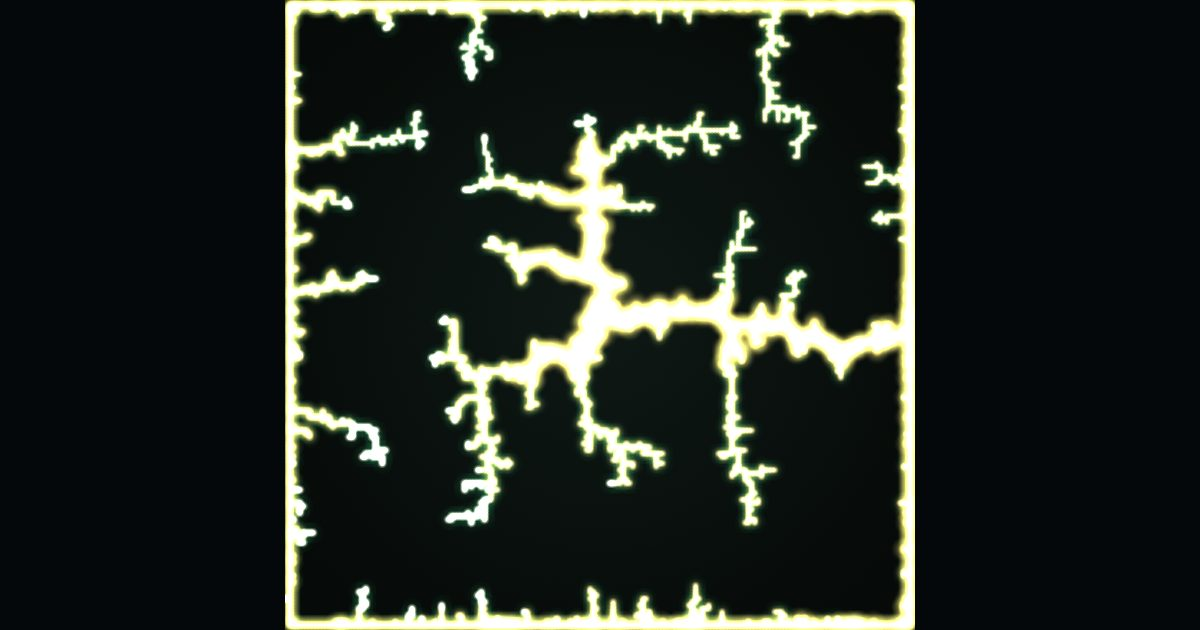
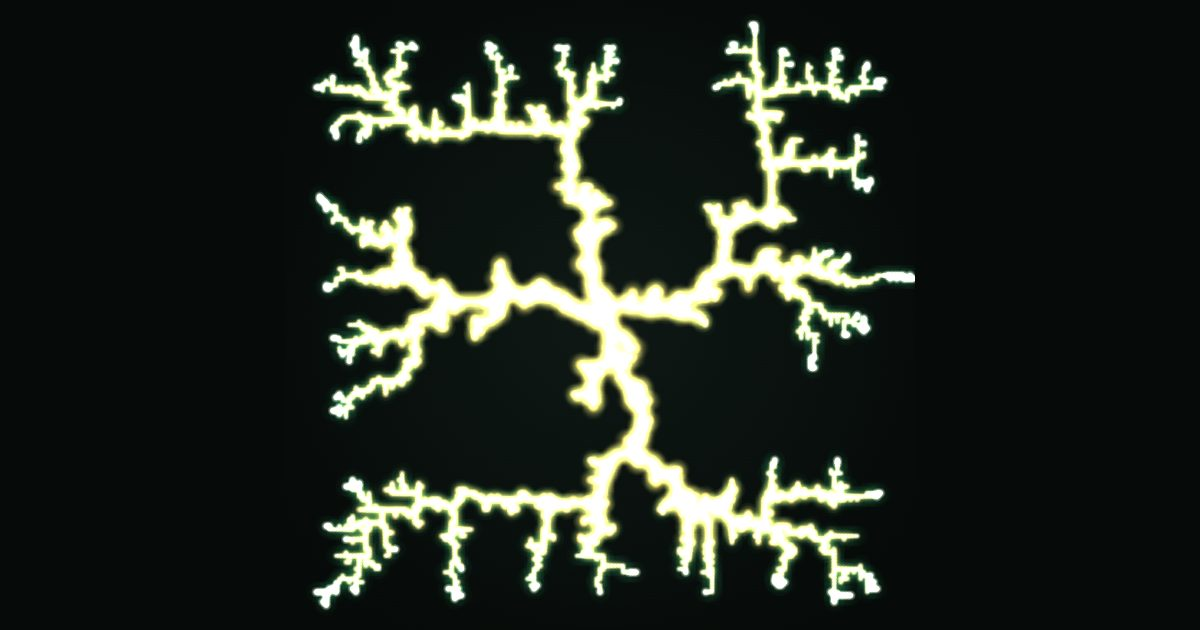
Lichtenberg: one discharge from the centre, no lit perimeter
Deferring only the outermost frame ring was not enough: a finger stalled one
cell inside it had the highest potential on the board, crawled along the
frame and drew a lit rim, with branches growing inward from every wall.
While the guard is on, the potential is now scaled by (d/40)^2 within 40
cells of the frame, so the field pulls the starburst outward evenly. Also:
stage fits the window, eyebrow wrap, and a new real 1200x630 OG capture.

Changed region(s): [[0.2158, 0.0, 0.7708, 1.0]]

diff --git a/11-lichtenberg/index.html b/11-lichtenberg/index.html
@@ -38,6 +38,8 @@ h1{font-size:30px;margin:9px 0 2px;font-weight:600}
   box-shadow:0 0 0 1px rgba(232,196,94,.14),0 30px 80px -30px #000;background:#05080699}
 canvas{display:block;max-width:100%;height:auto}
 .stage{max-width:100%}
+/* cap the stage by the viewport height, so the piece and the first row of controls fit on one screen */
+canvas{width:min(820px,max(300px,calc((100vh - 230px))));width:min(820px,max(300px,calc((100svh - 230px))))}
 /* reduced motion: static 'growing' label while the figure is computed off-screen (no animation) */
 .busy{position:absolute;inset:0;display:flex;align-items:center;justify-content:center;margin:0;padding-top:84px;pointer-events:none;
   color:var(--muted);font-family:ui-monospace,'SF Mono',monospace;font-size:12.5px;letter-spacing:.12em}
@@ -84,7 +86,7 @@ across the sky.</p>
 const canvas=document.getElementById('c');
 const W=820,H=820;
 function fit(){const dpr=Math.min(window.devicePixelRatio||1,2);canvas.width=W*dpr;canvas.height=H*dpr;
-  canvas.style.width=W+'px';const x=canvas.getContext('2d');x.setTransform(dpr,0,0,dpr,0,0);return x;}
+  const x=canvas.getContext('2d');x.setTransform(dpr,0,0,dpr,0,0);return x;}
 const ctx=fit();
 
 // ---- simulation grid ----
@@ -106,6 +108,7 @@ const CAP=4200;                        // hard cap on cluster size
 const SWEEPS=4;                        // Gauss-Seidel/SOR relaxation sweeps per growth step
 const OMEGA=1.5;                       // SOR over-relaxation factor
 const MIN_CELLS=3000;                  // grow at least this many before a frame-touch ends it (denser starburst)
+const GUARD_BAND=40;                   // while guarded, damp the frame's pull on candidates this many cells from it
 
 const idx=(x,y)=>y*GRID+x;
 
@@ -167,8 +170,13 @@ function growOne(){
   // (2)(3) gather candidate weights w = max(phi,0)^eta
   const cells=[]; const wts=[]; let total=0;
   for(const i of frontier){
-    if(guard && inFrame(i%GRID,(i/GRID)|0)) continue;   // defer frame cells
+    const cx=i%GRID, cy=(i/GRID)|0;
+    if(guard && inFrame(cx,cy)) continue;     // defer frame cells
     let p=phi[i]; if(p<0)p=0;                 // clamp negatives to 0
+    // Deferring only the frame ring is not enough: a finger stalled one cell inside it has the highest phi on
+    // the board, so it crawls along the frame and draws a lit rim. Scale phi by (d/GUARD_BAND)^2 near the frame
+    // while guarded, so the field pulls the starburst outward evenly instead of along the walls.
+    if(guard){const d=Math.min(cx,cy,GRID-1-cx,GRID-1-cy); if(d<GUARD_BAND){const f=d/GUARD_BAND; p*=f*f;}}
     const w=Math.pow(p,eta);
     cells.push(i);wts.push(w);total+=w;
   }
